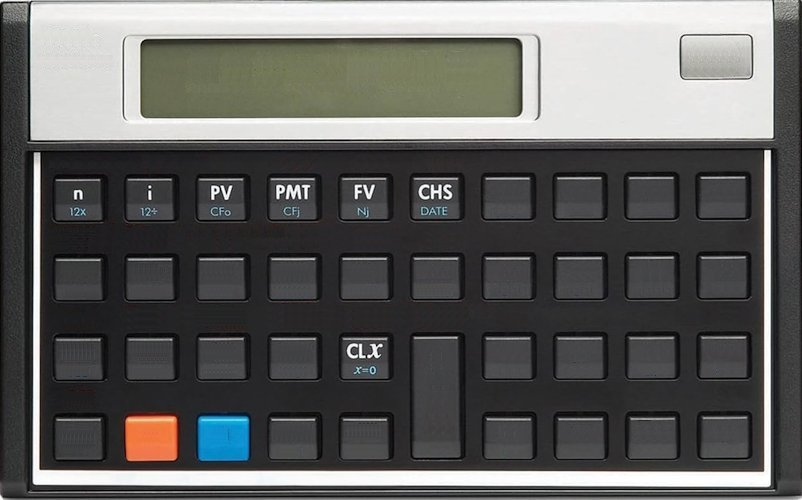
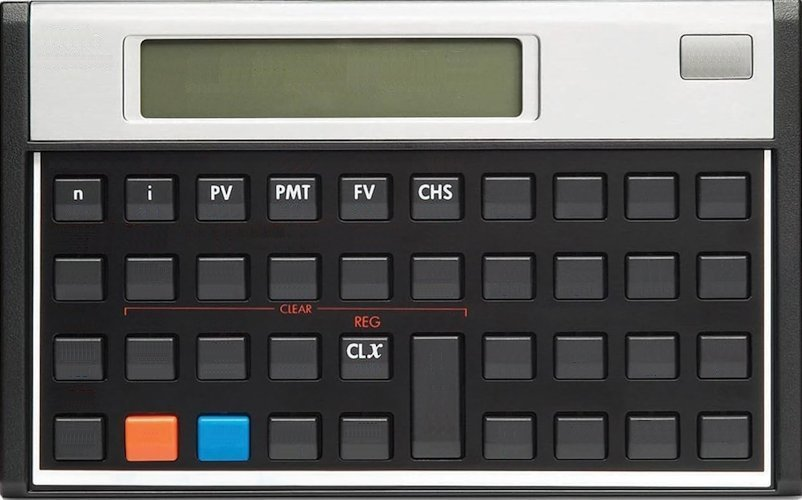
remove more references to absent functions in buttons

diff --git a/index.html b/index.html
@@ -4,7 +4,7 @@
     <meta charset='UTF-8'>
     <meta name='viewport' content='width=device-width, initial-scale=1.0'>
     <meta name='description' content='2C: A minimal financial calculator.'>
-    <title>Essencial HP 12C</title>
+    <title>Essencial HP 12c</title>
     <link href="https://fonts.cdnfonts.com/css/seven-segment" rel="stylesheet">
     <style>
         #display {